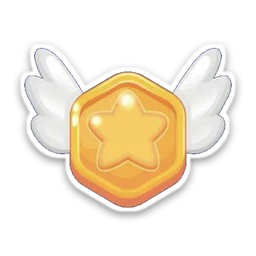
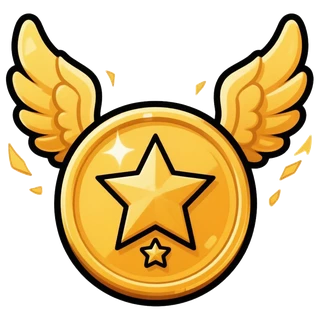
Новые медали бронза/серебро/золото с крыльями

diff --git a/lib/achievementsCatalog.ts b/lib/achievementsCatalog.ts
@@ -97,11 +97,11 @@ const RAW_ACHIEVEMENTS: AchievementDef[] = [
 
 	// Медали юнитов тренажёра (бронза — начал, серебро — половина уроков, золото — все; components/nav-sheet-ui.tsx).
 	// Иконки — сами медали в цвете (public/medals/*, AchievementIcon рисует их картинкой, а не маской).
-	{ key: 'medal_bronze_first', group: 'medals', emoji: '🥉', iconSrc: '/medals/medal-bronze.svg', title: 'Бронзовый век', desc: 'Получил первую бронзовую медаль юнита' },
+	{ key: 'medal_bronze_first', group: 'medals', emoji: '🥉', iconSrc: '/medals/medal-bronze.webp', title: 'Бронзовый век', desc: 'Получил первую бронзовую медаль юнита' },
 	{ key: 'medal_silver_first', group: 'medals', emoji: '🥈', iconSrc: '/medals/medal-silver.webp', title: 'Серебряная пуля', desc: 'Дотянул юнит до серебра — половина уроков позади' },
 	{ key: 'medal_gold_first', group: 'medals', emoji: '🥇', iconSrc: '/medals/medal-gold.webp', title: 'Золотая лихорадка', desc: 'Получил первое золото — прошёл все уроки юнита' },
 	{ key: 'medal_triple', group: 'medals', emoji: '🏅', iconSrc: '/medals/medal-gold.webp', title: 'Олимпийский набор', desc: 'Бронза, серебро и золото одновременно' },
-	{ key: 'medal_bronze_5', group: 'medals', emoji: '🥉', iconSrc: '/medals/medal-bronze.svg', title: 'Мастер начинать', desc: '5 юнитов в бронзе одновременно. Начать — уже полдела, правда?' },
+	{ key: 'medal_bronze_5', group: 'medals', emoji: '🥉', iconSrc: '/medals/medal-bronze.webp', title: 'Мастер начинать', desc: '5 юнитов в бронзе одновременно. Начать — уже полдела, правда?' },
 	{ key: 'medal_gold_3', group: 'medals', emoji: '🥇', iconSrc: '/medals/medal-gold.webp', title: 'Сам себе ювелир', desc: '3 золотые медали' },
 	// «Штурм» — горячие 10 минут (lib/storm.ts), данные — таблица storm_runs.
 	{ key: 'storm_start', group: 'storm', emoji: '🚀', title: 'В атаку!', desc: 'Попал в первый штурм' },

diff --git a/components/nav-sheet-ui.tsx b/components/nav-sheet-ui.tsx
@@ -43,7 +43,7 @@ const WHITE_RING = [0, 45, 90, 135, 180, 225, 270, 315]
     .map((a) => `${(Math.cos(a * Math.PI / 180) * 2).toFixed(2)}px ${(Math.sin(a * Math.PI / 180) * 2).toFixed(2)}px 0 #fff`)
     .join(', ') + ', 0 3px 3px rgba(0,0,0,0.35)'
 
-const MEDAL_SRC = { bronze: '/medals/medal-bronze.svg', silver: '/medals/medal-silver.webp', gold: '/medals/medal-gold.webp' }
+const MEDAL_SRC = { bronze: '/medals/medal-bronze.webp', silver: '/medals/medal-silver.webp', gold: '/medals/medal-gold.webp' }
 
 export const NavMedal = ({ percent, size = 44, onColor = false, label = false }: { percent: number; size?: number; onColor?: boolean; label?: boolean }) => {
     const m = medalFor(percent)

diff --git a/CLAUDE.md b/CLAUDE.md
@@ -14544,7 +14544,7 @@ framer-motion падал с ошибкой «Only two keyframes … spring»; т
 Шторка «Юниты» (простой вид /trainer, `trainer-grade-tree.tsx`): у заголовка группы (Тригонометрия, Логарифмы…) ни
 процента, ни полоски — только стрелка/замок. Под ним пункты с медалью справа (`NavMedal`/`medalFor` в
 `components/nav-sheet-ui.tsx`): 0% — пустой пунктирный кружок, >0 — бронза, ≥50% — серебро, 100% — золото
-(серебро и золото — `public/medals/*.webp`, вырезаны из картинок пользователя; бронза — своя векторная монета `medal-bronze.svg` без бликов, приглушённая, размером с корпус серебра/золота без крыльев; у золота свечение и искры — `.medal-glow`/`.medal-spark` в globals.css). Пункты —
+(`public/medals/medal-{bronze,silver,gold}.webp`, 320×320, все три с крыльями — заменены 28.10.2026 на новые картинки пользователя, исходники `docs/medals/originals/`, фон вырезан заливкой белого от углов; у золота свечение и искры — `.medal-glow`/`.medal-spark` в globals.css). Пункты —
 юниты группы; если в группе один юнит с тем же названием («Степени и корни», «Теорема Виета») — его уроки. % юнита —
 доля пройденных уроков, % урока — точность. Меню задачника (/learn) пока с прежними полосками `NavProgress`.
 Та же медаль (`NavMedal`, пропы `size`, `onColor` — светлый пустой кружок на цветном фоне) стоит вместо % на плашке юнита
